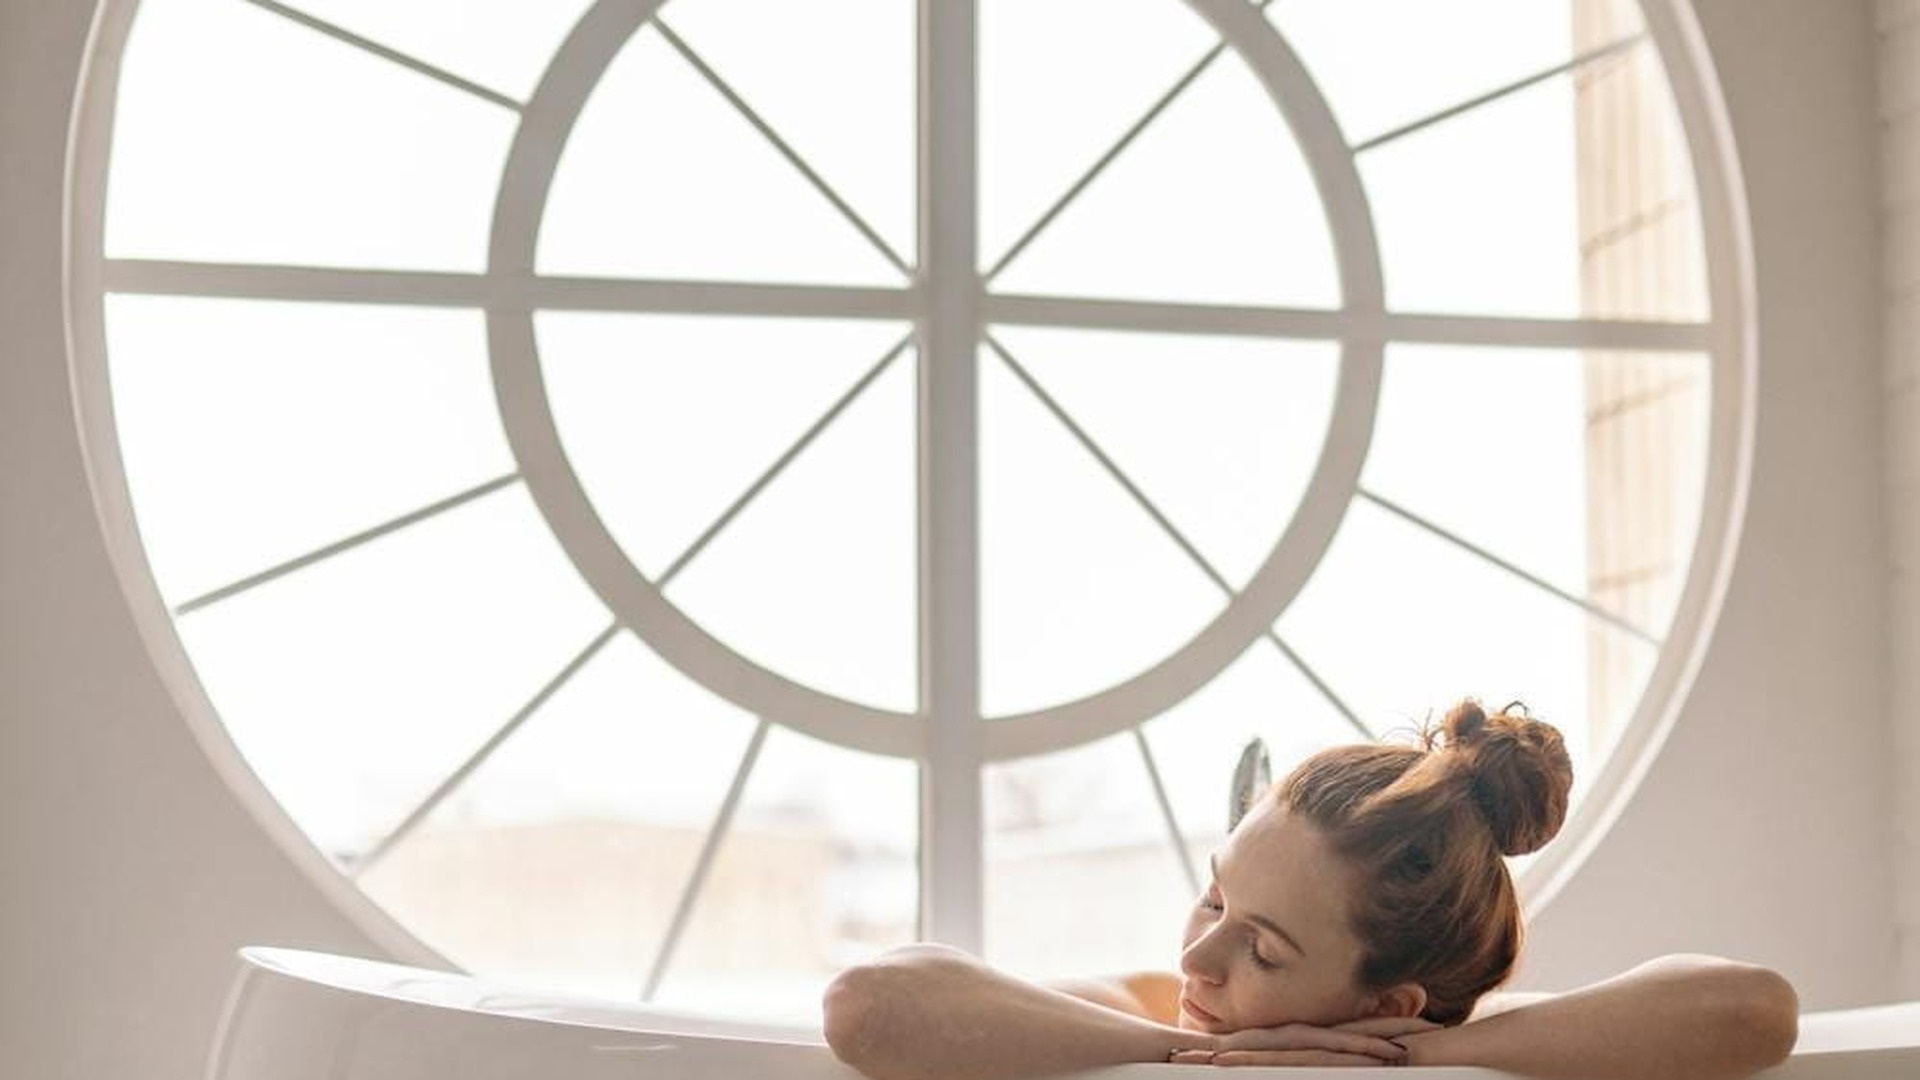
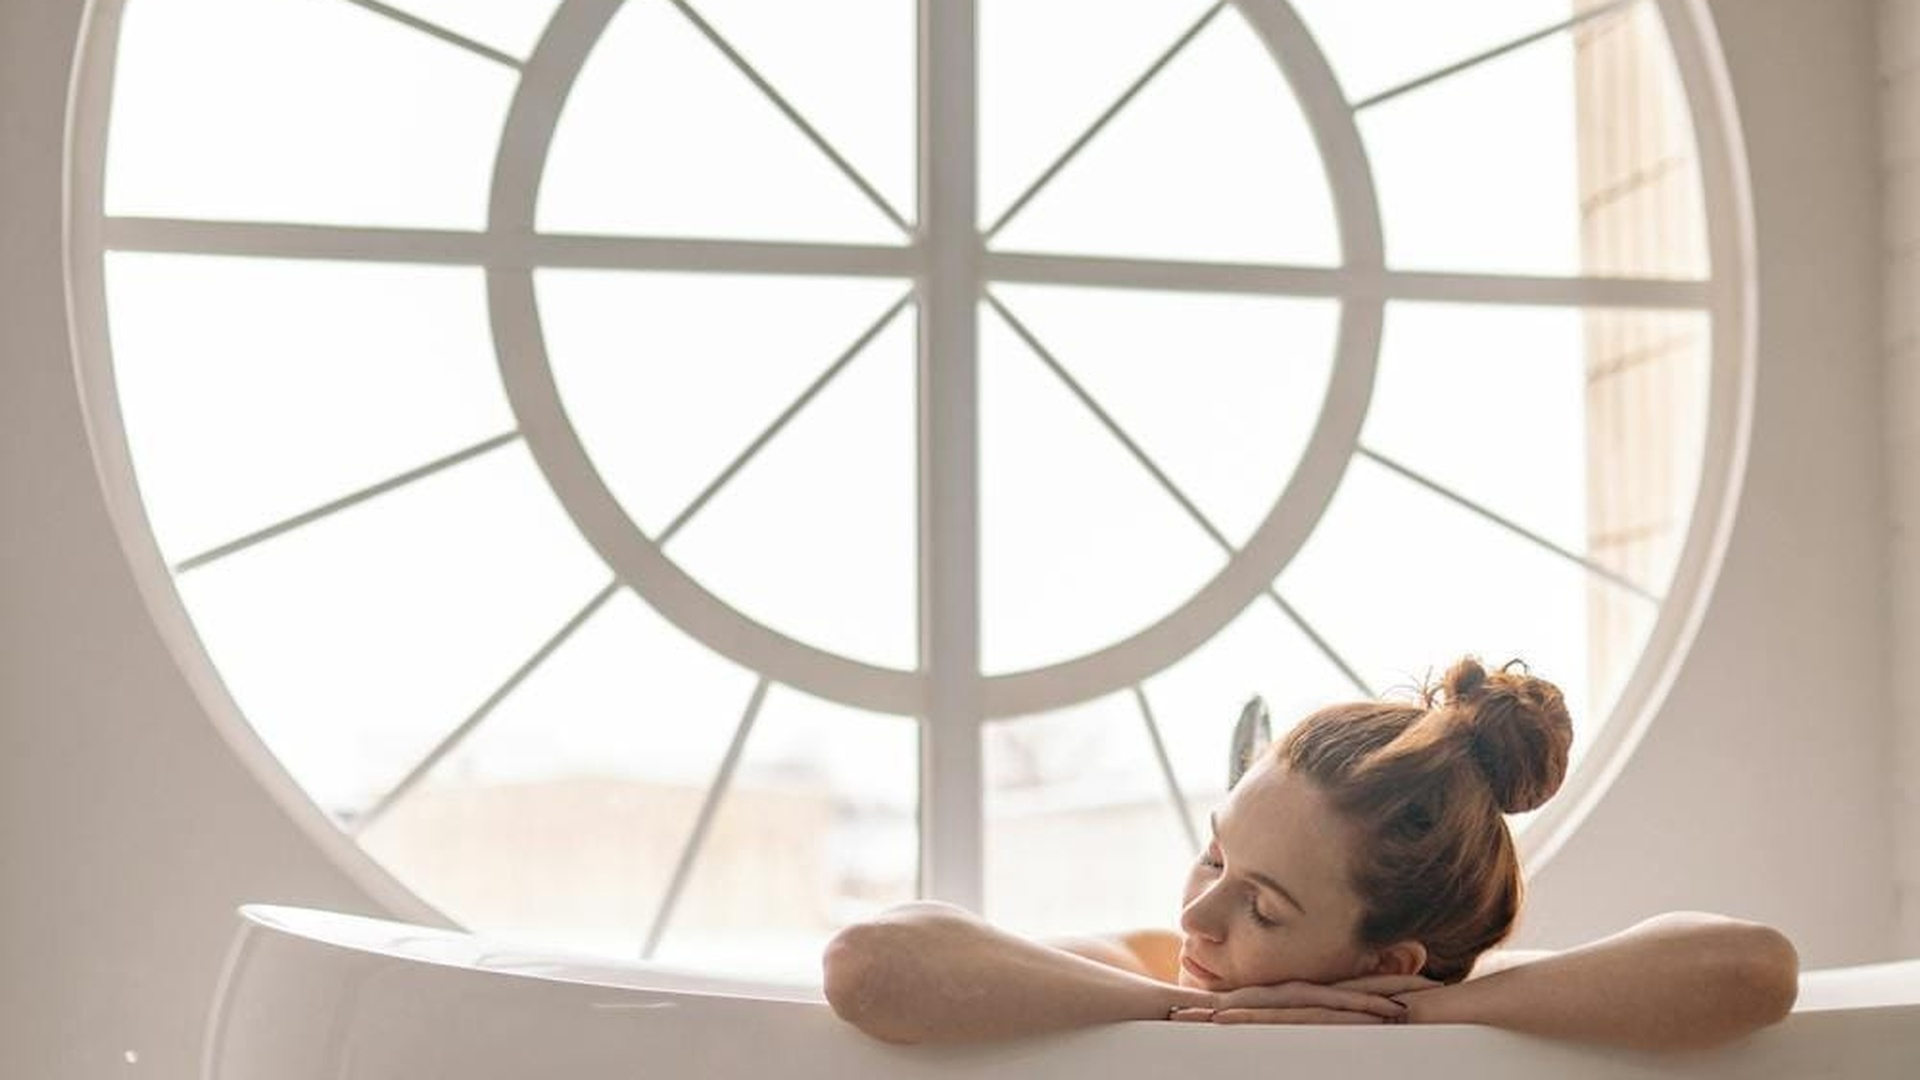
fix(ui): enforce edge-to-edge 16:9 widescreen for PC and 9:16 portrait for mobile in bath section

Changed region(s): [[0.0312, 0.0, 1.0, 1.0], [0.0312, 0.0, 0.0938, 0.1528]]

diff --git a/index.html b/index.html
@@ -805,42 +805,38 @@ living</p>
             <section id="sanctuary-bath" data-name="sanctuary-bath" class="relative w-full bg-black text-white pointer-events-auto overflow-hidden p-0 m-0 select-none z-[42]">
                 <style>
                     #sanctuary-bath {
-                        background-color: #000000;
-                    }
-                    #sanctuary-bath picture {
-                        display: flex;
-                        justify-content: center;
-                        align-items: center;
                         width: 100%;
+                        background-color: #000000;
+                        overflow: hidden;
                     }
-                    #sanctuary-bath img {
+                    #sanctuary-bath .luxi-sanctuary-img {
                         width: 100%;
                         height: auto;
-                        aspect-ratio: 9/16;
+                        aspect-ratio: 9 / 16;
                         object-fit: cover;
                         display: block;
                     }
                     @media (min-width: 641px) {
-                        #sanctuary-bath img {
-                            width: auto;
-                            max-width: 100vw;
-                            max-height: 100vh;
-                            aspect-ratio: auto;
-                            object-fit: contain;
-                            margin: 0 auto;
+                        #sanctuary-bath .luxi-sanctuary-img {
+                            width: 100%;
+                            height: auto;
+                            aspect-ratio: 16 / 9;
+                            object-fit: cover;
+                            display: block;
                         }
                     }
                 </style>
-                <div class="relative w-full overflow-hidden bg-black flex items-center justify-center">
-                    <picture>
-                        <!-- Mobile 9:16 portrait view -->
+                <div class="relative w-full overflow-hidden bg-black">
+                    <picture class="w-full block">
+                        <!-- Mobile: 9:16 portrait -->
                         <source media="(max-width: 640px)" srcset="/assets/img/interiors/luxihome-sanctuary-bath-mobile.webp" type="image/webp">
                         <source media="(max-width: 640px)" srcset="/assets/img/interiors/luxihome-sanctuary-bath-mobile.jpg" type="image/jpeg">
-                        <!-- Desktop / Tablet full view -->
-                        <source media="(min-width: 641px)" srcset="/assets/img/interiors/luxihome-sanctuary-bath-full.webp" type="image/webp">
-                        <source media="(min-width: 641px)" srcset="/assets/img/interiors/luxihome-sanctuary-bath-full.jpg" type="image/jpeg">
-                        <img src="/assets/img/interiors/luxihome-sanctuary-bath-full.jpg" 
+                        <!-- PC / Desktop: 16:9 widescreen -->
+                        <source media="(min-width: 641px)" srcset="/assets/img/interiors/luxihome-sanctuary-bath-desktop.webp" type="image/webp">
+                        <source media="(min-width: 641px)" srcset="/assets/img/interiors/luxihome-sanctuary-bath-desktop.jpg" type="image/jpeg">
+                        <img src="/assets/img/interiors/luxihome-sanctuary-bath-desktop.jpg" 
                              alt="LUXiHOME Bespoke Luxury Bath Sanctuary" 
+                             class="luxi-sanctuary-img"
                              loading="lazy"
                              decoding="async">
                     </picture>
